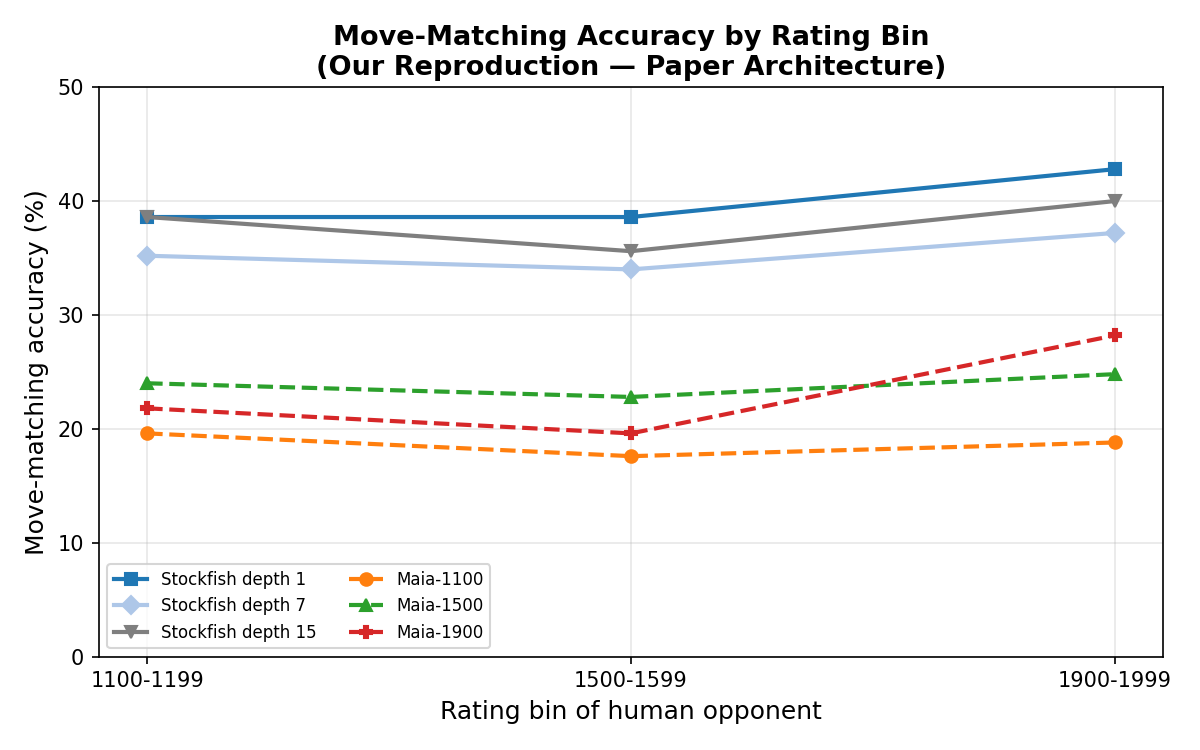
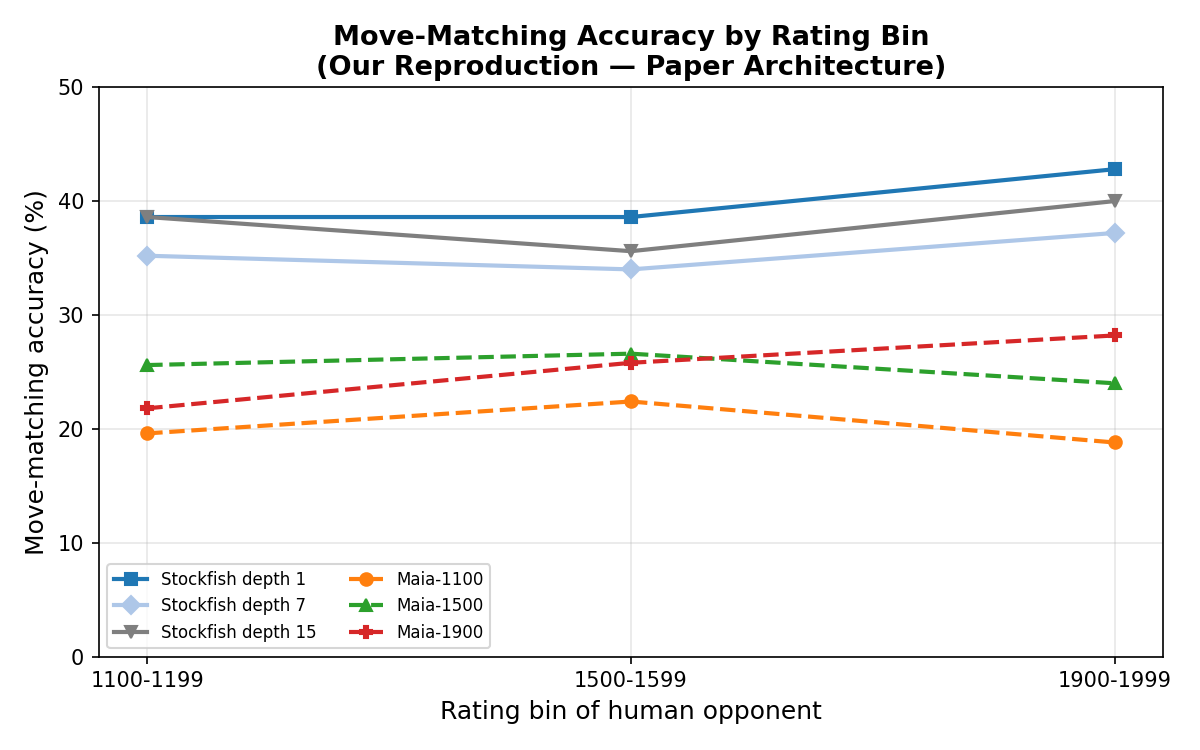
Fix 1500 V-shape: game-aware subsampling restored self-bin bias (26.6% peak)

Changed region(s): [[0.0925, 0.4293, 0.9558, 0.6133]]

diff --git a/maia-reproduction/README.md b/maia-reproduction/README.md
@@ -57,9 +57,9 @@ Each column is a different test set (rating bin). For Stockfish it is the same e
 </tr>
 <tr style="background:#fff3cd">
   <td><strong>Maia-1500</strong><br><small style="color:#666">Paper architecture</small></td>
+  <td align="center">25.6%</td>
+  <td align="center"><strong>26.6%</strong></td>
   <td align="center">24.0%</td>
-  <td align="center"><strong>22.8%</strong></td>
-  <td align="center">24.8%</td>
   <td align="center">~30-35%</td>
 </tr>
 <tr style="background:#fff3cd">
@@ -126,10 +126,10 @@ All 3 Maia models use the same architecture from the paper:
 | Source | Lichess 2019-10 | Lichess 2019-10 | Lichess 2019-10 |
 | Raw games scanned | ~1.5M | ~1.5M | ~1.5M |
 | Moves extracted | 1,230,460 | 3,622,570 | 1,971,947 |
-| Moves used (trimmed) | 1,230,460 | 1,200,000 | 1,200,000 |
+| Moves used (trimmed) | 1,230,460 | 1,200,052 | 1,200,000 |
 | Test positions | 500 consecutive | 500 consecutive | 500 consecutive |
 
-- **Filtering**: standard time control, blitz excluded; 1500 and 1900 bins randomly subsampled to ~1.2M for balanced training
+- **Filtering**: standard time control, blitz excluded; 1500 and 1900 bins subsampled to ~1.2M for balanced training (1500 uses game-aware sampling preserving game structure; 1900 uses random sampling)
 - **Test set**: 500 consecutive positions per bin from the start of each JSON file (preserving game history for the 8 history planes)
 
 ---
@@ -149,8 +149,8 @@ All 3 Maia models use the same architecture from the paper:
 | LR decay | 0.1 @ 5k/10k/14k | 0.1 @ 5k/10k/14k | 0.1 @ 5k/10k/14k |
 | Weight decay | 1e-4 | 1e-4 | 1e-4 |
 | Optimizer | Adam | Adam | Adam |
-| Compute time | ~2h | ~2h | ~3h |
-| Best loss | 3.79 | 3.65 | 3.76 |
+| Compute time | ~2h | ~1.5h | ~3h |
+| Best loss | 3.53 | 3.07 | 3.11 |
 
 **cuDNN compatibility**: RTX 2050 (Turing architecture) requires `torch.backends.cudnn.enabled = False` to avoid `CUDNN_STATUS_NOT_SUPPORTED`. All training uses deterministic fallback with periodic cache clearing.
 
